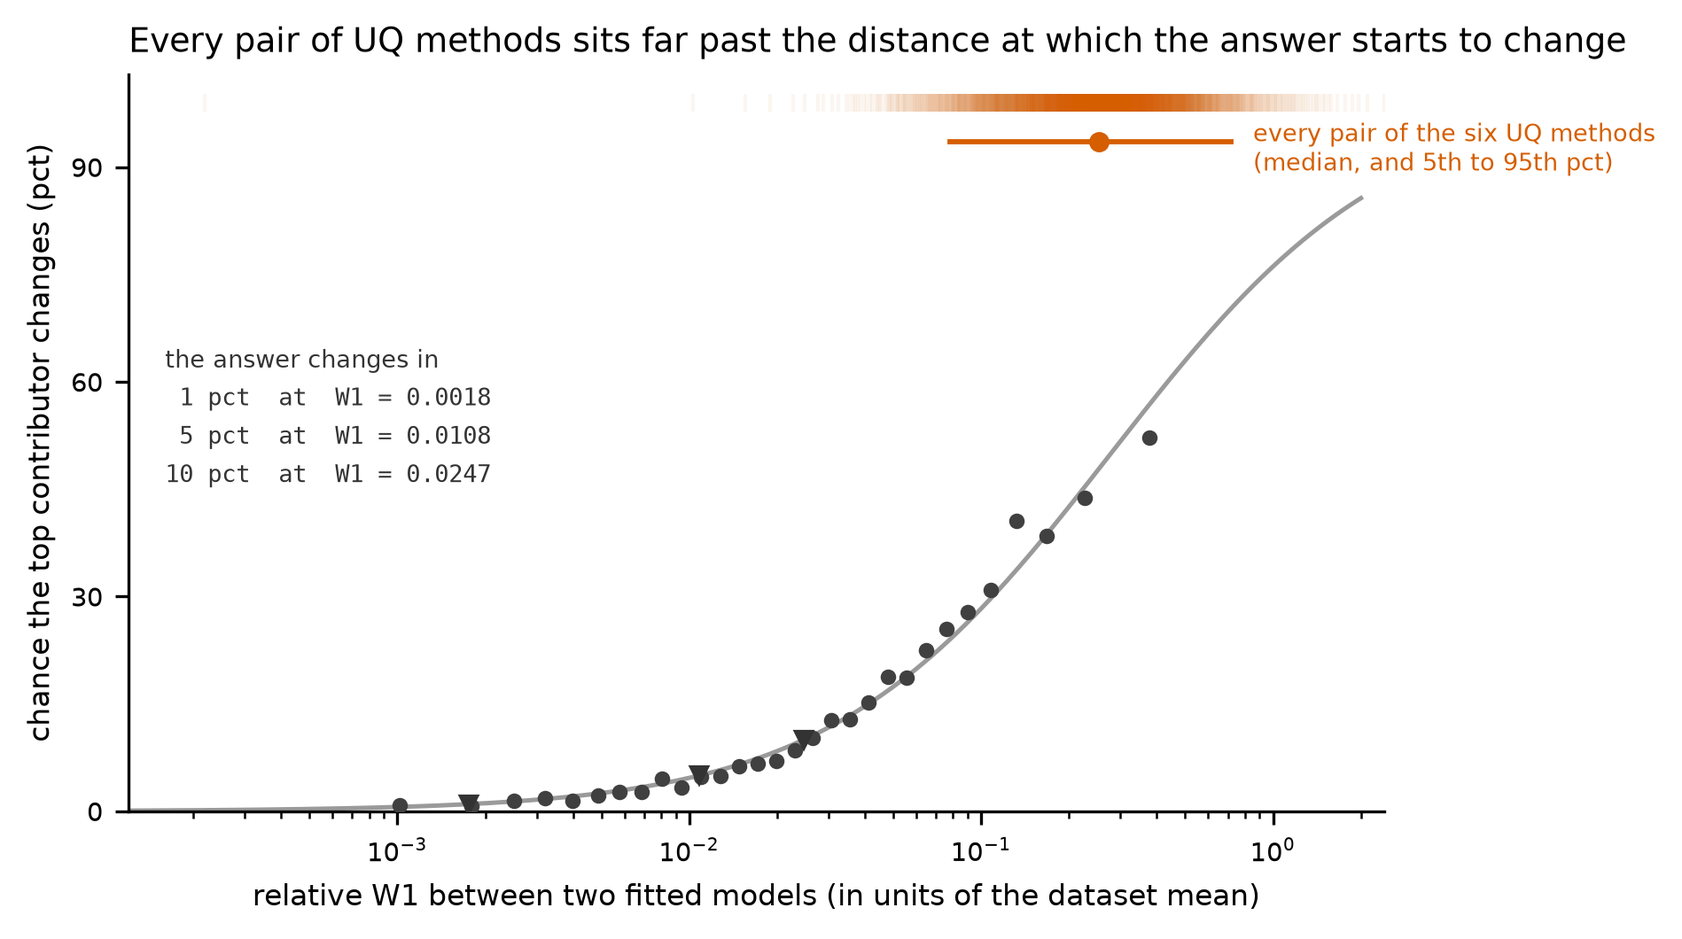
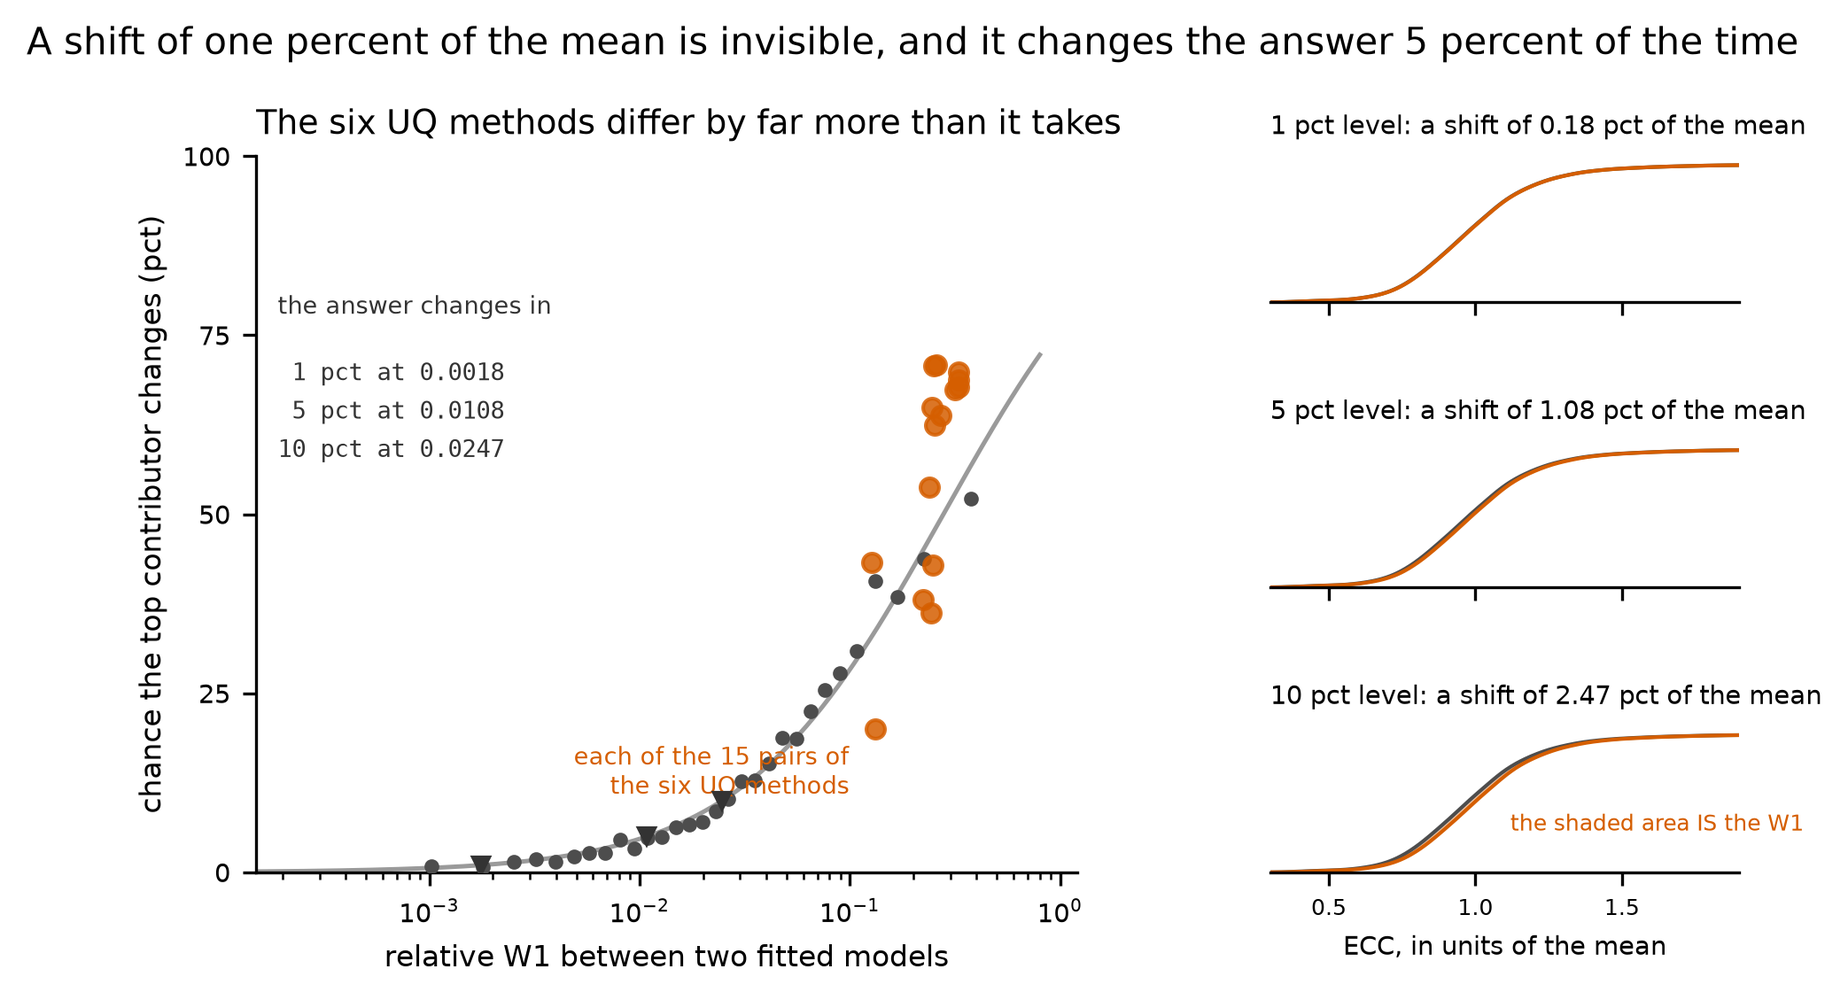
Fix a graphical-integrity failure the author caught, and demote the flip rate
THE FIGURE WAS LYING AND THE AUTHOR SPOTTED IT BY INSTINCT. The calibration
figure drew the fifteen UQ method pairs as a rug at a FIXED HEIGHT near the top
of a panel whose y axis is a probability, so they read as though every pair
flipped the answer almost always. They do not: the per-pair rate runs from 0.200
to 0.708, a factor of 3.5. A mark whose vertical position encodes nothing, in a
panel where vertical position means probability, is exactly Tufte's lie factor
above one. Each pair is now a point at its own separation and its own rate.

The same figure now answers "what does a relative W1 of 0.0018 look like": three
panels showing two cumulative curves that far apart, with the area between them
shaded, because that area IS the W1. A distance of 0.011 is a shift of about one
percent of the mean -- invisible, and enough to change the answer one time in
twenty.

THE HEADLINE CHANGES, at the author's direction. "56 percent of pLCAs flip" is
demoted: it rests on an argmax of four near-exchangeable materials, and later
stages are still changing the pLCA construction. Measured over 300 groups with
the same models and two streams, the argmax flips 12.3 percent of the time for
contribution share, 5.3 for rank-1 frequency and 3.0 for variance importance,
while the underlying continuous values are stable to about 7 percent of their
spread.

The headline is now a SHIFT: which UQ method you choose moves a material's
[…]

diff --git a/reports/HANDOFF_stage-2d.md b/reports/HANDOFF_stage-2d.md
@@ -13,34 +13,42 @@ file.
 
 # IF YOU READ ONE PAGE, READ THIS ONE
 
-Everything below is the working record. **These eleven sentences are what Stage
-2d contributes to the manuscript.** Each is a claim the paper can make, with the
+Everything below is the working record. **These ten sentences are what Stage 2d
+contributes to the manuscript.** Each is a claim the paper can make, with the
 number that supports it. Nothing else in this file needs to reach the paper.
 
 **On the method comparison**
 
-1. Choosing among the six UQ methods changes which material is named the largest
-   contributor in **56 percent** of probabilistic LCAs; every pair of the six
-   sits far past the distance at which the answer starts to change.
-2. The probability that the answer changes crosses **1 percent at a relative W1
-   of 0.0018, 5 percent at 0.011 and 10 percent at 0.025** -- so the study's
-   goodness-of-fit scale can now be read as a consequence rather than as a
-   ranking.
+1. **Which UQ method you choose changes a material's stated probability of being
+   the largest contributor by 5 to 19 percentage points** -- a median shift in
+   rank-1 frequency of 0.048 for the closest pair of the six methods and 0.188
+   for the furthest. This is the headline: it is continuous, it carries no Monte
+   Carlo noise floor, and it does not lean on the four-material construction.
+2. The probability that the identity of the largest contributor actually changes
+   crosses **1 percent at a relative W1 of 0.0018, 5 percent at 0.011 and 10
+   percent at 0.025**, so the study's goodness-of-fit scale can be read as a
+   consequence. **A relative W1 of 0.011 is a shift of about one percent of the
+   dataset mean** -- invisible on a plotted curve, and enough to change the
+   answer one time in twenty.
 
 **On weighting, which is the stage's main contribution**
 
 3. The distance between uniform and variable weighting is about **three quarters
-   a shift of the mean** (median location share 0.725 on real data), so the
-   practitioner question needs a weighted mean, not a distribution.
+   a shift of the mean** (median location share 0.725 on real data), so a
+   practitioner can tell whether market shares matter for their category by
+   computing a weighted mean and seeing how far it moves -- no distribution
+   fitting, no simulation.
 4. Whether weighting matters is predicted almost exactly by two numbers a
-   practitioner already has: **separation is about 0.73 * CV * n^-0.43**, R2 =
-   0.99 on both arms.
+   practitioner already has, the EPD count and the coefficient of variation:
+   **separation is about 0.73 * CV * n^-0.43**, R2 = 0.99 on both arms.
 5. Uniform weighting is therefore safe only when the coefficient of variation is
    below about **0.015 * n^0.43** -- 0.046 at 10 EPDs, 0.120 at 100, 0.315 at
    1,000 -- and the median real category does not clear it.
 6. **For 91 percent of real ECC categories, a plausible market-share allocation
    has at least a 5 percent chance of changing which material ranks first.**
-   Uniform weighting is defensible only above roughly a thousand EPDs.
+   Uniform weighting is defensible only above roughly a thousand EPDs. **This is
+   a call to collect market-share data**, which is the one input that would
+   remove the problem rather than bound it.
 7. Every one of those numbers is a **lower bound**, because a flat Dirichlet
    understates the separation by **1.5 to 3.1 times** when share clusters on
    similar products, which is how real market share behaves.
@@ -49,22 +57,29 @@ number that supports it. Nothing else in this file needs to reach the paper.
 
 **On method, which the paper owes as method rather than as findings**
 
-9. A_IQR, the measure from the companion paper, turns out to be **a measure of
-   dataset size** here (R2 0.94 against log n, 1.5 percent added by dispersion),
-   so it is reported for consistency and is not the instrument for this question.
-10. Comparing two UQ methods under independent random streams changes the answer
-    **5.33 percent** of the time with no model difference at all; the estimates
-    are converged and the argmax of a near-tie is not, so common random numbers
-    are required rather than more draws.
-11. The plausibility ceiling's inventory citation is withdrawn as unverifiable;
-    the ceiling stands on the arithmetic that 100 kgCO2e per kg would require
-    burning **27.3 kg of pure carbon per kilogram shipped**.
+9. A_IQR, the measure from the companion paper, is **a measure of dataset size**
+   in this study (R2 0.94 against log n, 1.5 percent added by dispersion), which
+   is what density-estimation theory predicts when the weight information is held
+   fixed and only n varies. It stays reported for consistency and is not the
+   instrument for this question.
+10. Comparing two UQ methods under independent random streams changes the
+    identity of the largest contributor **5.33 percent** of the time with no model
+    difference at all. The estimates are converged; the argmax of a near-tie is
+    not, and cannot be at any sample size. Common random numbers fix it exactly;
+    more draws only shrink it as the square root.
 
-**What the paper must state as conditional, in the same paragraph as the
-number, not in a footnote.** Every flip probability here assumes four materials
-of equal material use intensity, which makes the ranking as fragile as it can be
-made and therefore makes these numbers upper bounds on how often a modeling
-choice changes a real building's answer.
+**What the paper must state as conditional, in the same paragraph as the number
+and not in a footnote.** Every FLIP probability assumes four materials of equal
+material use intensity, which makes the ranking as fragile as it can be made and
+therefore makes those numbers upper bounds; the continuous SHIFT in sentence 1
+does not have that dependence, which is the main reason to lead with it. Stage 2e
+changes the number of materials per pLCA and will move every flip threshold.
+
+**One housekeeping item, not a finding.** The plausibility ceiling's inventory
+citation could not be verified in this repository and is withdrawn. Nothing about
+the ceiling changes: it rests on the arithmetic that 100 kgCO2e per kg of product
+would require burning 27.3 kg of pure carbon per kilogram shipped, which needs no
+database and which a reviewer checks in one line.
 
 ---
 
@@ -73,8 +88,9 @@ choice changes a real building's answer.
 
 ## REVIEW SECTION -- FOR THE AUTHOR, AND TO BE DELETED BEFORE THIS FILE SHIPS
 
-The three figures this stage produced, inline so they need no folder digging,
-with what to check in each. **The handoff's real reader has no repository, so
+The three figures this stage produced, inline, with what to check in each. This
+file plus these three figures is the whole review: there is nothing to run and no
+other document to open. **The handoff's real reader has no repository, so
 these links are useless to them; this whole section comes out when the stage
 closes.** Everything below section 0 stands on its own without them.
 
@@ -293,6 +309,56 @@ arithmetic a reviewer checks in one line. Discrepancy entry 81.
 reader has no repository, that decision and entry numbers are trailing citations
 rather than substance, that numbers must appear as text, and that an instruction
 to open a file is addressed to the next Claude Code session.
+
+---
+
+## 0b. QUESTIONS THE AUTHOR ASKED OF THE FIRST DRAFT, ANSWERED
+
+Kept because each answer is a claim in its own right and none of them is
+recoverable from the numbers alone.
+
+**"A weighted mean, not a distribution" -- what does that mean?** Poorly put in
+the first draft. It means this: to decide whether market shares matter for your
+category you do not need to fit anything. Take the plain average of the ECCs you
+hold, take the average again weighting each by its market share, and see how far
+apart they are. Three quarters of the entire uniform-to-variable effect is that
+one gap. If it is small, uniform weighting is safe for you.
+
+**"Does CV mean coefficient of variation?"** Yes -- the standard deviation
+divided by the mean. It is written out on first use everywhere now.
+
+**"Is A_IQR aligned with log n an artifact, and does it match the statistics
+literature?"** It matches it. The pointwise variance of a kernel density estimate
+goes as 1 / (n h), and with a Silverman or Scott bandwidth h goes as n^-0.2, so
+the standard deviation of the estimated density goes as **n^-0.4**. A_IQR is an
+interquartile width of exactly that ensemble, and the measured exponent is
+**-0.35**. So A_IQR is behaving as density-estimation theory says it must.
+
+**Does that make A_IQR redundant?** In THIS study, largely yes -- but not in the
+companion paper, and the difference is instructive. A_IQR depends on the weight
+INFORMATION as well as on n. The companion paper's scenarios 3.1 and 3.2 use the
+same nine-point dataset and report A_IQR of 0.22 and 0.12, differing only in
+whether a subgroup's weights are constrained or known exactly. **Same n, nearly a
+factor of two in A_IQR.** This study holds the weight information fixed -- a flat
+Dirichlet, no constraints, for every category -- so the only thing left varying
+is n, and A_IQR collapses onto it. The measure is not redundant; this study's
+design simply removes the dimension it was built to see.
+
+**"The noise floor still feels wrong -- are we just not sampling enough?"** No,
+and the analogy that makes it clear: polling an election. With 10,000 respondents
+you know each candidate's share to within half a point, which is plenty. But if
+the true race is 50.0 against 50.0, no sample size tells you who wins, because
+there is no stable answer to tell. Here about a fifth of pLCA groups have their
+top two materials within sampling error of each other, and in those the "winner"
+is arbitrary. The estimates are converged; the ARGMAX of a tie is not a
+convergent quantity. This is also why the recommended headline is the continuous
+shift rather than the flip: the shift has no tie to be on the wrong side of.
+
+**"Why do we keep talking about the inventory citation?"** We should not, and the
+first draft over-weighted it. The ceiling is fine and no number depends on it.
+The only issue was that one supporting citation could not be verified in this
+repository, so it is withdrawn and the arithmetic justification carries it alone.
+It has been demoted out of the headline list.
 
 ---
 

diff --git a/FIGURE_STYLE.md b/FIGURE_STYLE.md
@@ -14,8 +14,11 @@ writing a figure and call that module rather than re-deriving it.
 ## 1. The one rule that matters most: a figure carries ONE message, and the title states it
 
 Doumont's central claim is that every piece of communication should be built
-around a single message the audience can restate afterwards. A title that names
-the variables is a label; a title that states the finding is a message.
+around a single message the audience can restate afterwards. His own test, from
+a worked counterexample: a display conveys no message when its "title expresses
+what the data are, not what the data mean -- **the what, not the so what**". A
+title that names the variables is a label; a title that states the finding is a
+message.
 
     WRONG   "A_IQR against dataset size"
     RIGHT   "A_IQR measures how many EPDs a category has, not how spread it is"
@@ -44,6 +47,10 @@ and the words must be proportional to the evidence.
 Tufte's test is the ratio of ink that encodes data to ink on the page. Every mark
 that is not data must justify itself.
 
+Tufte's own list is five instructions: above all else show the data; maximize
+the data-ink ratio; erase non-data-ink; erase redundant data-ink; revise and
+edit. The last is the one people skip.
+
 **Erase by default:**
 
 - the top and right spines, always;
@@ -58,15 +65,16 @@ that is not data must justify itself.
 
 **Keep and strengthen:**
 
-- the data marks themselves;
+- the data marks themselves, which is Tufte's first principle: above all else
+  show the data;
 - one direct label per series, placed at the series, replacing the legend;
 - the smallest number of axis ticks that lets a reader interpolate, typically
   three to five;
 - annotation of the specific points the message depends on.
 
 **Direct labelling beats a legend.** A legend forces the reader to look away,
-decode a colour, and look back; Tufte calls this an interruption and Doumont
-calls it noise. Put the series name at the end of the series, in the series
+decode a colour, and look back. Doumont's objection is blunter: a legend is "an
+arbitrary dictionary of colors, hard to process". Put the series name at the end of the series, in the series
 colour. Use a legend only when lines are too dense to label in place.
 
 ---
@@ -74,8 +82,10 @@ colour. Use a legend only when lines are too dense to label in place.
 ## 3. Small multiples over multi-series clutter
 
 When a relationship should be compared across a third variable, repeat the panel
-rather than overplotting. Hold the axes identical across panels so the comparison
-is positional, label the axes once, and let the panel titles carry the level of
+rather than overplotting. **Hold the axes identical across panels**, which
+Doumont states as a requirement rather than a preference -- panels showing
+subsets of the same variables "must use the same scales to offer a meaningful
+comparison" -- so the comparison is positional, label the axes once, and let the panel titles carry the level of
 the third variable. Small multiples are Tufte's strongest recommendation and this
 project's data -- two arms, four size bands, six UQ methods -- suits them.
 
@@ -167,15 +177,62 @@ Colour encodes, it does not decorate.
 9. Is every number quoted to a precision the estimate supports?
 10. Does the figure read without the caption? Does the caption add something
     rather than repeat the title?
+11. **Doumont's test:** show it to someone representative of the audience with
+    no spoken explanation. Can they say what it shows and why it is there? If a
+    reader has to ask what a mark means, the mark is not labelled.
 
 ---
 
-## 9. Provenance of this file
+## 9. What comes from where
+
+**Sourced to Tufte**, *The Visual Display of Quantitative Information* (1983):
+
+- the five data-ink principles, quoted -- **above all else show the data;
+  maximize the data-ink ratio; erase non-data-ink; erase redundant data-ink;
+  revise and edit**;
+- the data-ink ratio itself, defined as one minus the proportion of the graphic
+  that could be erased without loss of data information;
+- **chartjunk**, and its three named forms: moire vibration, heavy grids, and
+  self-promoting graphics;
+- the **lie factor**, the size of the effect shown divided by the size of the
+  effect in the data, which should be near one;
+- **small multiples**, which is his term.
+
+**Sourced to Doumont**, *Trees, maps, and theorems* (2009):
+
+- the three laws -- **adapt to your audience, maximize the signal-to-noise
+  ratio, use effective redundancy**;
+- the message rule, in his words: a display that conveys no message is one whose
+  "title expresses **what the data are, not what the data mean (the what, not
+  the so what)**";
+- the objection to legends, from his worked counterexample: a legend is "an
+  arbitrary dictionary of colors, hard to process";
+- the small-multiple constraint: "multiple panels representing subsets of the
+  same variables **must use the same scales** to offer a meaningful comparison";
+- the self-explanation test -- show the display to someone representative of the
+  audience, without your spoken text, and see whether they can say what it shows
+  and why it is there.
+
+**This project's own conventions, which neither author states.** The Okabe-Ito
+palette and the six-colour limit; the specific point sizes; the ASCII-only rule,
+which is a standing constraint of this repository and not a design principle;
+the file-naming scheme; the 3.5 and 7.2 inch widths; and the requirement that
+figures be built from tables on disk. These are ours. They are listed separately
+so a future stage can change them without arguing with Tufte.
+
+---
+
+## 10. Provenance of this file
 
 Written 2026-09-17, Stage 2d, at the author's instruction, after a review found
 that the stage's three figures followed no written guide: titles named variables
 rather than findings, annotations collided with data, and legends were used where
 direct labels would serve.
+
+**Revised the same day**, also at the author's instruction, after checking the
+primary sources rather than working from memory. The first draft attributed to
+Tufte and Doumont several rules neither of them states; section 9 now separates
+what is sourced from what is ours.
 
 **Before this file existed the guide lived only in conversation, which is the
 condition this project's own continuity rule forbids.** If a figure convention is

diff --git a/CLAUDE.md b/CLAUDE.md
@@ -2318,3 +2318,43 @@ rather than in conversation.
      real-building anchor. **The paper must not quote a flip probability as
      though it described a building**, and the conditionality belongs in the same
      paragraph as the number, not in a footnote. Discrepancy entry 93.
+
+102. **2026-09-17, Stage 2d review. THE HEADLINE SHOULD BE A CONTINUOUS OUTPUT,
+     NOT AN ARGMAX. "56 percent of pLCAs flip" is demoted.** `[AUTHOR]` The
+     author declined to over-index on the flip rate, on two grounds: the pLCA
+     process is still changing in later stages, and the identity of the largest
+     contributor is not the only thing a probabilistic LCA is for. Both are
+     right, and the measurement supports a better headline.
+
+     **The author's framing of what a pLCA is for:** magnitude and variance --
+     which material contributes most, and how likely that is -- because those are
+     what drive design decisions and data-collection priorities.
+
+     **The study already computes the right quantities and the error was
+     collapsing them to an argmax.** `eci_rank_1` per material IS magnitude and
+     likelihood together: "a 30 percent chance this material is the largest
+     contributor." What is fragile is not that number but the question "which
+     material has the highest one", because with four exchangeable materials the
+     top two are often tied. Measured over 300 groups with the SAME models and
+     two streams, the argmax flips 12.3 percent of the time for contribution
+     share, 5.3 percent for rank-1 frequency and 3.0 percent for variance
+     importance, while the underlying continuous values are stable to about 7
+     percent of their spread across materials.
+
+     **So the headline becomes a SHIFT rather than a FLIP**, and it needs no
+     common random numbers and carries no noise floor:
+
+         choosing between the CLOSEST pair of the six methods moves a
+         material's rank-1 frequency by a median of 0.048
+         the FURTHEST pair moves it by 0.188
+
+     Read as: which UQ method you pick changes your stated probability that a
+     given material is the largest contributor by **5 to 19 percentage points**.
+     That is a sentence a practitioner can act on, it is stable, and it does not
+     depend on the four-material construction the way a flip rate does.
+
+     **The flip rate stays as a secondary, clearly conditional statistic.**
+     **Stage 2g owns the metric set** and should carry this through: report the
+     continuous shift as primary, add variance importance as the
+     data-collection-facing measure, and state any argmax result with its noise
+     floor beside it. Discrepancy entry 94.

diff --git a/reports/MANUSCRIPT_discrepancies.md b/reports/MANUSCRIPT_discrepancies.md
@@ -1308,3 +1308,15 @@ relative figure beside it.**
 | **What the paper must not do** | Quote a flip probability as though it described a building. Every one of them is conditional on four exchangeable materials, and the text must say so in the same paragraph, not in a footnote. |
 | **Fix** | **Analysis, Stage 2e then optionally 2i**, and text in the meantime. |
 | **Status** | Open, owner 2e. Decision 101. |
+
+## 94. The headline metric should be a SHIFT, not a FLIP
+
+| | |
+|---|---|
+| **What the manuscript does** | Reports "ECI Rank #1 Frequency" and compares UQ methods by how often the identity of the largest contributor changes. |
+| **Why that is the wrong headline** | The identity of an argmax is a discontinuous function of four nearly equal quantities, so it inherits every source of instability at once. With the same fitted models and two independent Monte Carlo streams it changes 5.3 percent of the time for rank-1 frequency, 12.3 percent for contribution share and 3.0 percent for variance importance -- with no model difference at all. The underlying continuous values are stable to about 7 percent of their spread. |
+| **What a probabilistic LCA is actually for** | Magnitude and likelihood: which material contributes most, and how confident that is -- because those drive design decisions and data-collection priorities. `eci_rank_1` per material already answers both at once. The error was collapsing it to "which material has the highest one". |
+| **The headline this supports instead** | **Which UQ method you choose changes a material's rank-1 frequency by a median of 0.048 for the closest pair of the six and 0.188 for the furthest** -- that is, your stated probability that a given material is the largest contributor moves by 5 to 19 percentage points. Stable, continuous, no noise floor, and far less dependent on the four-material construction. |
+| **What else belongs in the set** | Variance importance, the share of total variance a material's uncertainty accounts for, which is the measure that tells a practitioner where to spend data-collection effort. It is already computed as `ui` in the pLCA table and nothing reports it. |
+| **Fix** | **Analysis, Stage 2g**, which owns the metric set. Report the continuous shift as primary, variance importance alongside, and any argmax statistic with its noise floor beside it. |
+| **Status** | Open, owner 2g. Decision 102. |
